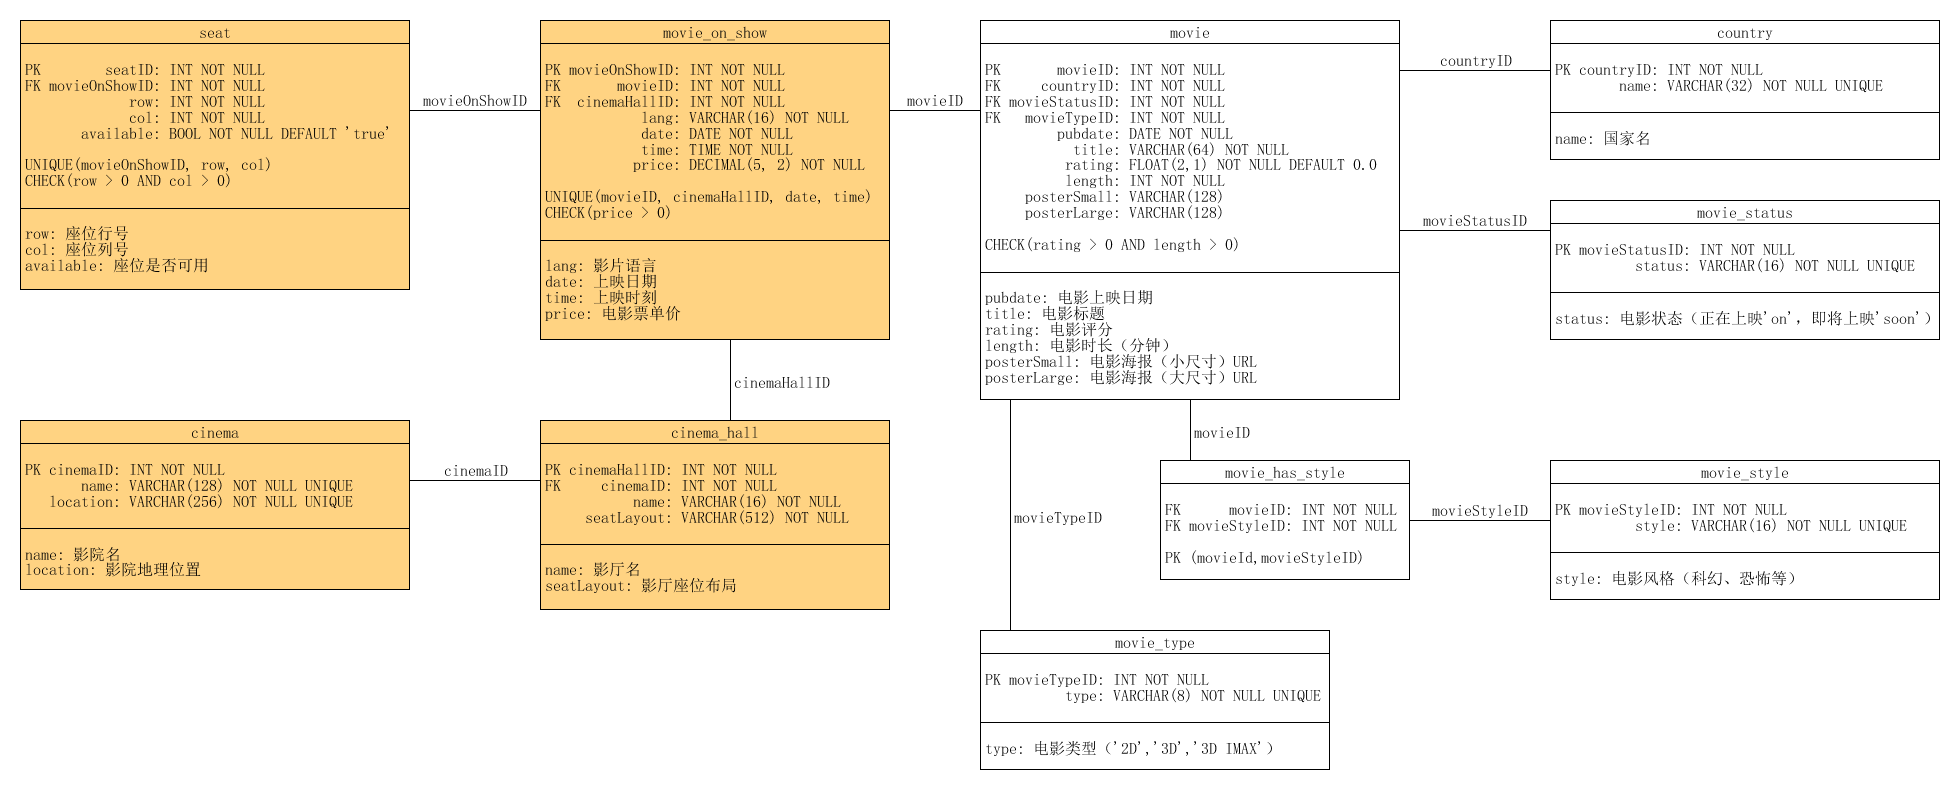
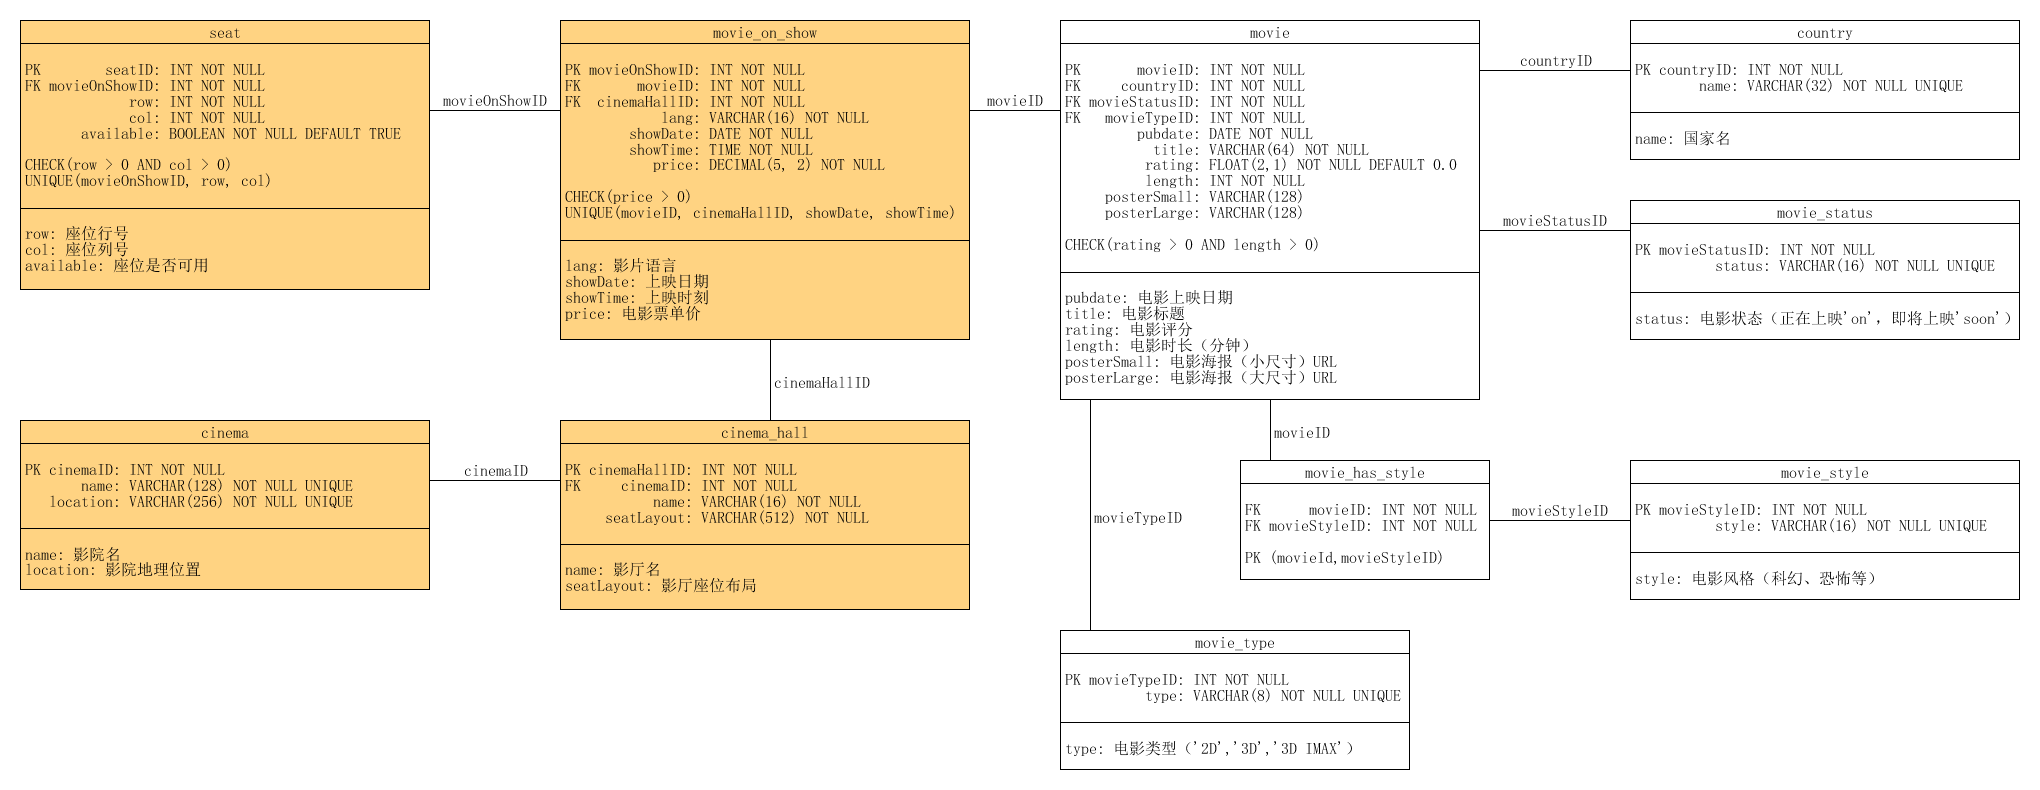
Update API and database design

diff --git a/doc/api.md b/doc/api.md
@@ -11,12 +11,14 @@
 - [影院类](#影院类)
     - [获取影院信息（Testing）](#获取影院信息（testing）)
 - [影厅类](#影厅类)
+    - [获取影厅信息（不含座位布局）（Testing）](#获取影厅信息（不含座位布局）（testing）)
     - [获取影厅座位布局（Testing）](#获取影厅座位布局（testing）)
 - [电影排期类](#电影排期类)
-    - [获取电影排期（Testing）](#获取电影排期（testing）)
-    - [获取近期电影排期（Testing）](#获取近期电影排期（testing）)
-    - [获取影院日排期（Testing）](#获取影院日排期（testing）)
-    - [获取影院日排期摘要（Testing）](#获取影院日排期摘要（testing）)
+    - [获取电影排期（根据电影信息）（Testing）](#获取电影排期（根据电影信息）（testing）)
+    - [获取电影排期（根据 id）（Testing）](#获取电影排期（根据-id）（testing）)
+    - [获取电影的近期排期（Testing）](#获取电影的近期排期（testing）)
+    - [获取电影的影院日排期（Testing）](#获取电影的影院日排期（testing）)
+    - [获取电影的影院日排期摘要（Testing）](#获取电影的影院日排期摘要（testing）)
 - [座位类](#座位类)
     - [获取不可用座位信息（Testing）](#获取不可用座位信息（testing）)
 
@@ -208,25 +210,54 @@ Response Example:
 <a name="影厅类"></a>
 ## 影厅类
 
-<a name="获取影厅座位布局（testing）"></a>
-### 获取影厅座位布局（Testing）
+<a name="获取影厅信息（不含座位布局）（testing）"></a>
+### 获取影厅信息（不含座位布局）（Testing）
 
 Request URI:
 
 ```
-GET /resource/cinema_hall/:cinemaHallID/seats
+GET /resource/cinema_hall/:cinemaHallID
 ```
 
 Response Properties:
 
 | Property | Description | Type |
 |----------|-------------|------|
+|cinemaHallID|影厅 ID|int|
+|cinemaID|影厅所属影院 ID|int|
+|name|影厅名|string|
+
+Response Example:
+
+```json
+{
+    "cinemaHallID": 12,
+    "cinemaID": 3,
+    "name": "2号厅"
+}
+```
+
+<a name="获取影厅座位布局（testing）"></a>
+### 获取影厅座位布局（Testing）
+
+Request URI:
+
+```
+GET /resource/cinema_hall/:cinemaHallID/seat_layout
+```
+
+Response Properties:
+
+| Property | Description | Type |
+|----------|-------------|------|
+|cinemaHallID|影厅 ID|int|
 |seatLayout|影厅座位排布|string|
 
 Response Example:
 
 ```json
 {
+    "cinemaHallID": 11,
     "seatLayout": "01110,01110,11111,11111,11111"
 }
 ```
@@ -236,8 +267,52 @@ Response Example:
 <a name="电影排期类"></a>
 ## 电影排期类
 
-<a name="获取电影排期（testing）"></a>
-### 获取电影排期（Testing）
+<a name="获取电影排期（根据电影信息）（testing）"></a>
+### 获取电影排期（根据电影信息）（Testing）
+
+Request URI:
+
+```
+GET /resource/movie_on_show
+```
+
+Request Parameters:
+
+| Param | Description |
+|-------|-------------|
+|movieID|电影 ID|
+|cinemaHallID|影厅 ID|
+|showDate|放映日期|
+|showTime|放映时间|
+
+Response Properties:
+
+| Property | Description | Type |
+|----------|-------------|------|
+|movieOnShowID|电影排期 ID|int|
+|movieID|电影 ID|int|
+|cinemaHallID|影厅 ID|int|
+|lang|影片语言|string|
+|showDate|放映日期|string|
+|showTime|放映时间|string|
+|price|电影票单价|float|
+
+Response Example:
+
+```json
+{
+    "movieOnShowID": 222,
+    "movieID": 444,
+    "cinemaHallID": 333,
+    "lang": "国语",
+    "showDate": "2017-04-04",
+    "showTime": "12:35:00",
+    "price": 35.0
+}
+```
+
+<a name="获取电影排期（根据-id）（testing）"></a>
+### 获取电影排期（根据 id）（Testing）
 
 Request URI:
 
@@ -249,12 +324,12 @@ Response Properties:
 
 | Property | Description | Type |
 |----------|-------------|------|
-|movieOnShowID|电影排期记录 ID|int|
+|movieOnShowID|电影排期 ID|int|
+|movieID|电影 ID|int|
 |cinemaHallID|影厅 ID|int|
-|cinemaHallName|影厅名|string|
 |lang|影片语言|string|
-|date|放映日期|string|
-|time|放映时间|string|
+|showDate|放映日期|string|
+|showTime|放映时间|string|
 |price|电影票单价|float|
 
 Response Example:
@@ -262,17 +337,17 @@ Response Example:
 ```json
 {
     "movieOnShowID": 222,
+    "movieID": 444,
     "cinemaHallID": 333,
-    "cinemaHallName": "2号厅",
     "lang": "国语",
-    "date": "2017-04-04",
-    "time": "12:35:00",
+    "showDate": "2017-04-04",
+    "showTime": "12:35:00",
     "price": 35.0
 }
 ```
 
-<a name="获取近期电影排期（testing）"></a>
-### 获取近期电影排期（Testing）
+<a name="获取电影的近期排期（testing）"></a>
+### 获取电影的近期排期（Testing）
 
 Request URI:
 
@@ -291,7 +366,7 @@ Response Properties:
 | Property | Description | Type |
 |----------|-------------|------|
 |count|电影排期数|int|
-|data|（日期，cinemaID 集合）二元组集合|array|
+|data|（日期，播放该电影的影院 ID 集合）二元组集合|array|
 
 Response Example:
 
@@ -311,8 +386,8 @@ Response Example:
 }
 ```
 
-<a name="获取影院日排期（testing）"></a>
-### 获取影院日排期（Testing）
+<a name="获取电影的影院日排期（testing）"></a>
+### 获取电影的影院日排期（Testing）
 
 Request URI:
 
@@ -333,7 +408,7 @@ Response Properties:
 | Property | Description | Type |
 |----------|-------------|------|
 |count|电影排期数量|int|
-|data|movieOnShowID 数组|array|
+|data|电影排期 ID 集合|array|
 
 Response Example:
 
@@ -344,8 +419,8 @@ Response Example:
 }
 ```
 
-<a name="获取影院日排期摘要（testing）"></a>
-### 获取影院日排期摘要（Testing）
+<a name="获取电影的影院日排期摘要（testing）"></a>
+### 获取电影的影院日排期摘要（Testing）
 
 Request URI:
 
@@ -393,14 +468,14 @@ Request Parameters:
 
 | Param | Description |
 |-------|-------------|
-|movieOnShowID|电影排期记录 ID|
+|movieOnShowID|电影排期 ID|
 
 Response Properties:
 
 | Property | Description | Type |
 |----------|-------------|------|
 |count|不可用座位数|int|
-|data|（座位行号，座位列号）数组|array|
+|data|（不可用座位行号，不可用座位列号）数组|array|
 
 Response Example:
 
